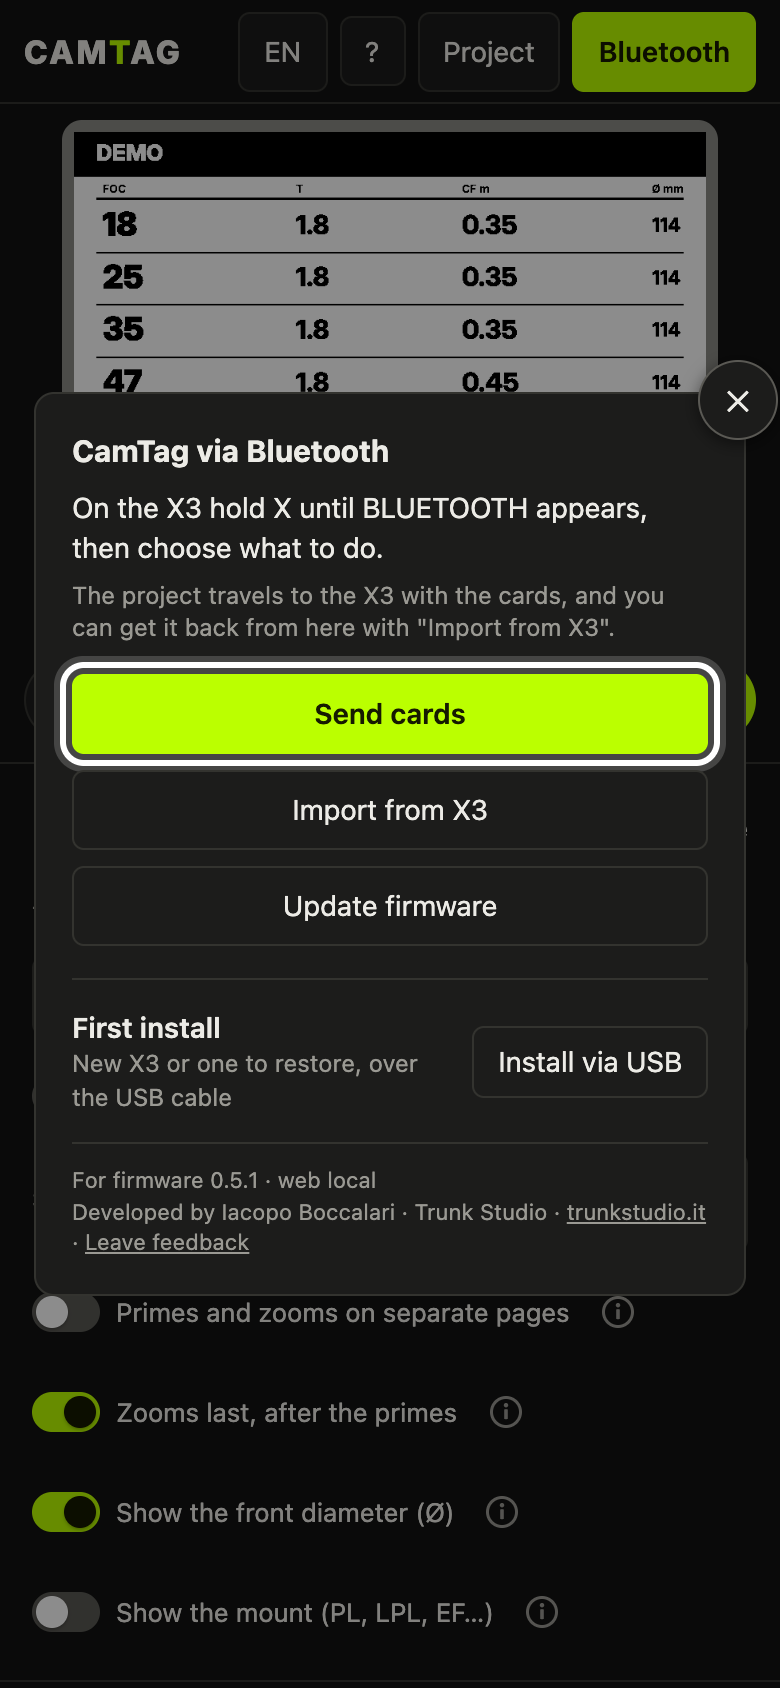
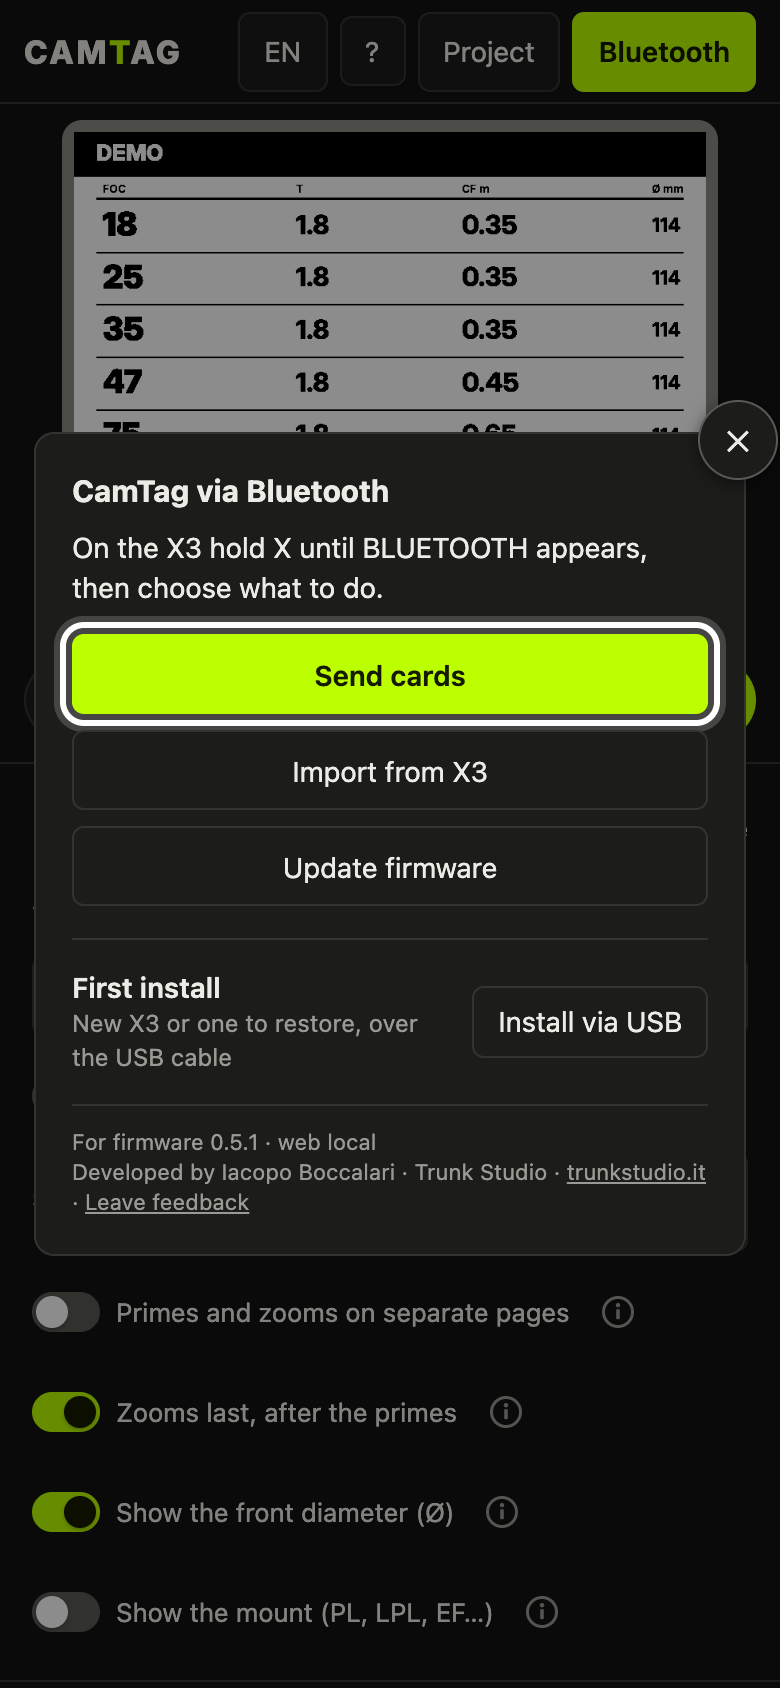
Bluetooth: tolta la riga sul progetto che viaggia con le card
Il manuale lo spiega già; rifatte le schermate phone-ble.png.

diff --git a/companion/i18n.js b/companion/i18n.js
@@ -500,7 +500,6 @@ const I18N_EN = {
   "Fatto: il progetto dell'X3 è nel configuratore web.": "Done: the X3's project is in the web configurator.",
   '{} schede manuali, {} lenti.': '{} manual cards, {} lenses.',
   "Sull'X3 tieni premuto X finché compare BLUETOOTH, poi scegli cosa fare.": 'On the X3 hold X until BLUETOOTH appears, then choose what to do.',
-  "Con le card arriva sull'X3 anche il progetto, che puoi riprendere da qui con \"Importa dall'X3\".": 'The project travels to the X3 with the cards, and you can get it back from here with "Import from X3".',
   'Database lenti non trovato. Avvia il server dalla radice del progetto: python3 -m http.server 8765, poi apri /companion/.': 'Lens database not found. Start the server from the project root: python3 -m http.server 8765, then open /companion/.',
 
   // ---------- Scritte sulle card (tc) ----------

diff --git a/companion/index.html b/companion/index.html
@@ -3684,7 +3684,7 @@ $('#bleBtn').onclick = () => {
     bleUi(note, { error: true });
     if (IOS && window.isSecureContext && !navigator.bluetooth)
       $('#bleDetail').replaceChildren(t('Su App Store: '), ...IOS_BLE_APPS.flatMap(([n, u], i) => [i ? ' · ' : '', h('a', { href: u, target: '_blank', rel: 'noopener' }, n)]));
-  } else bleUi(t('Sull\'X3 tieni premuto X finché compare BLUETOOTH, poi scegli cosa fare.'), { detail: t('Con le card arriva sull\'X3 anche il progetto, che puoi riprendere da qui con "Importa dall\'X3".') });
+  } else bleUi(t('Sull\'X3 tieni premuto X finché compare BLUETOOTH, poi scegli cosa fare.'));
   bleActs(!note);
   $('#bleDlg').showModal();
 };
